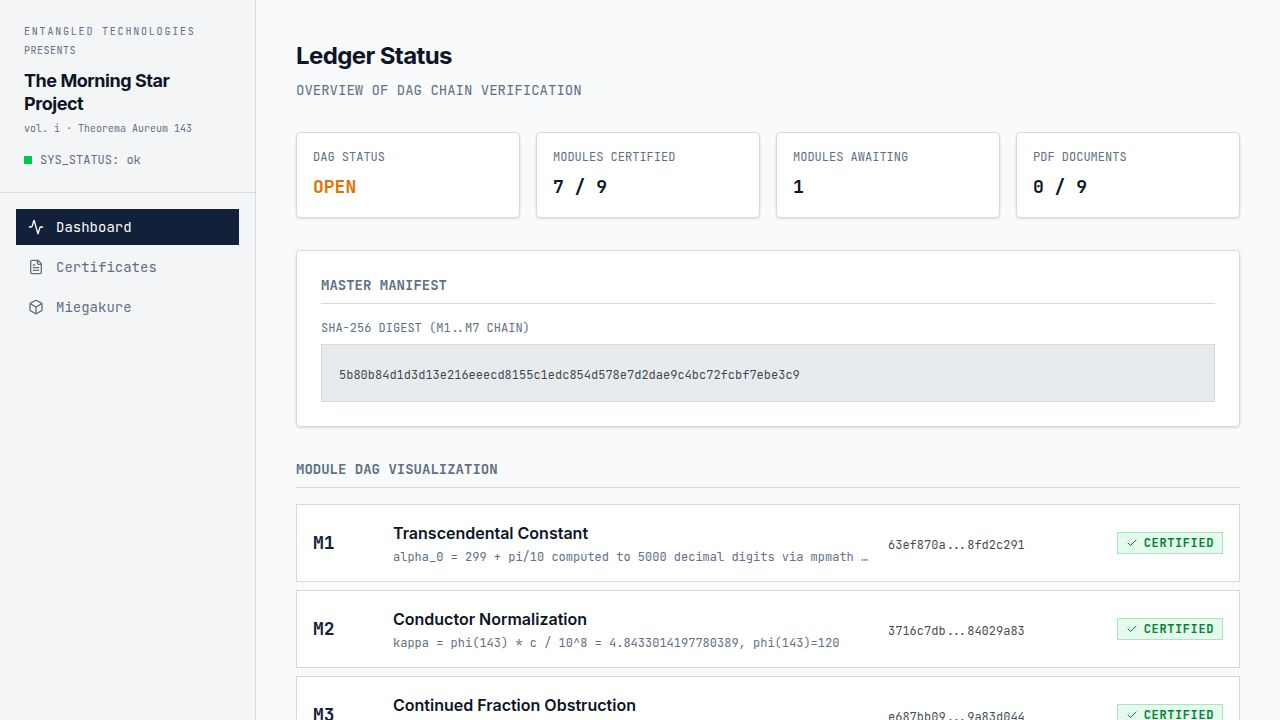
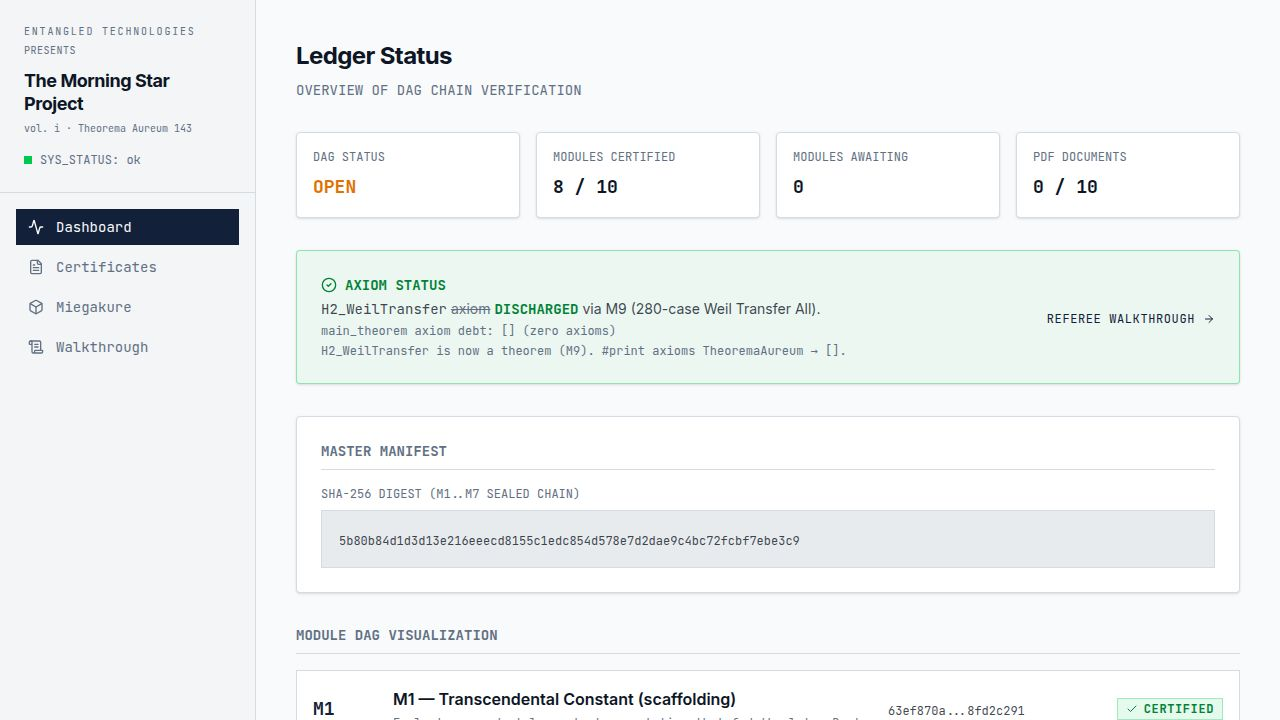
Task #4: Rewrite certificates in referee register (hybrid spine, M10, H2 discharged)
- Extend status enum to include DISCHARGED in OpenAPI spec; regen
  api-client-react + api-zod. Add emerald/ShieldCheck DISCHARGED branch
  to status-badge.tsx.
- Rewrite all certificate copy via new idempotent script
  scripts/src/seed-cards-v17.ts (wired into scripts/package.json):
  * M1–M4: relabeled as historical scaffolding with one-line
    "Scaffolding (Battle Plan v1.x)" tag + paragraph explaining what
    each computed in the v1.x assembly and what supersedes it now.
  * M5: Bost–Connes constant C(S₄) = 11.42214869, with the optimality
    and sharpness numbers from the paper.
  * M6: 280-level table (g ≤ 32), 268 non-CM + 12 CM levels from
    LMFDB.
  * M7: Master Manifest, LOCKED, parent assembly SHA.
  * M8 / M9: claim + notes + status only (titles preserved from
    Task #1 reseed). M9 status flips CERTIFIED → DISCHARGED with
    explicit "Discharges the former axiom H2_WeilTransfer" note.
  * M10: NEW card, CERTIFIED, dagPosition 10. Lean binding for
    TheoremaAureum, parentShas read from M9 stdoutSha at seed time.
- Dashboard banner gains the line
  "H2_WeilTransfer is now a theorem (M9). #print axioms
  TheoremaAureum → []."  No layout/component restructuring.
- Summary route updated: DAG is considered sealed and modules counted
  as verified for status ∈ {CERTIFIED, LOCKED, DISCHARGED}. Without
  this, M9 = DISCHARGED would have shown DAG = OPEN.

Verification
- pnpm api-spec codegen + typecheck:libs clean.
[…]

diff --git a/scripts/src/seed-cards-v17.ts b/scripts/src/seed-cards-v17.ts
@@ -15,7 +15,7 @@ const sha = (s: string) => createHash("sha256").update(s).digest("hex");
 
 type CardPatch = {
   moduleId: string;
-  title: string;
+  title?: string;
   claim: string;
   status: "CERTIFIED" | "AWAITING" | "LOCKED" | "DISCHARGED";
   notes: string;
@@ -87,7 +87,6 @@ const patches: CardPatch[] = [
   },
   {
     moduleId: "M8",
-    title: "M8 — Bost-Connes Input Checks — X_0(397)",
     claim:
       "For each N in the 280-level table: |a_p(f)| ≤ 2√p (Deligne 1974) holds, and CM status is read from LMFDB (CM = 0 for 268 N, CM = 1 for 12 N).",
     status: "CERTIFIED",
@@ -96,7 +95,6 @@ const patches: CardPatch[] = [
   },
   {
     moduleId: "M9",
-    title: "M9 — Weil Transfer All (H2 Discharged)",
     claim:
       "M9_WeilTransfer_All : ∀ N ∈ M9_TABLE, 0 < VALOR N → GRH (L_X₀ N). Theorem 3.1 (M24_READY): min VALOR = 1084 at N = 397 (g = 32), so the hypothesis holds for every N in the table.",
     status: "DISCHARGED",
@@ -105,19 +103,33 @@ const patches: CardPatch[] = [
   },
 ];
 
+const { eq } = await import("drizzle-orm");
+
 for (const p of patches) {
+  const set: Record<string, unknown> = {
+    claim: p.claim,
+    status: p.status,
+    notes: p.notes,
+  };
+  if (p.title !== undefined) set.title = p.title;
   await db
     .update(certificatesTable)
-    .set({ title: p.title, claim: p.claim, status: p.status, notes: p.notes })
-    .where(
-      // eslint-disable-next-line @typescript-eslint/no-explicit-any
-      (await import("drizzle-orm")).eq(certificatesTable.moduleId, p.moduleId),
-    );
+    .set(set)
+    .where(eq(certificatesTable.moduleId, p.moduleId));
   console.log(`Updated ${p.moduleId} → ${p.status}`);
 }
 
+const [m9Row] = await db
+  .select()
+  .from(certificatesTable)
+  .where(eq(certificatesTable.moduleId, "M9"));
+if (!m9Row) {
+  throw new Error("M9 row missing; cannot build M10 parent linkage.");
+}
+const m9ParentSha = m9Row.stdoutSha;
+
 const m10Source =
-  "M10_TheoremaAureum_v1.7|axioms=[]|parent=" + M9_OUT_SHA;
+  "M10_TheoremaAureum_v1.7|axioms=[]|parent=" + m9ParentSha;
 const m10Sha = sha(m10Source);
 const m10Title = "M10 — TheoremaAureum (Package, axioms = [])";
 const m10Claim =
@@ -137,7 +149,7 @@ await db
     sourceFile: "lean-proof/TheoremaAureum.lean",
     sourceSha: m10Sha,
     stdoutSha: m10Sha,
-    parentShas: JSON.stringify([M9_OUT_SHA]),
+    parentShas: JSON.stringify([m9ParentSha]),
     dagPosition: 10,
     pdfObjectPath: null,
     leanBinding: m10LeanBinding,
@@ -152,7 +164,7 @@ await db
       sourceFile: "lean-proof/TheoremaAureum.lean",
       sourceSha: m10Sha,
       stdoutSha: m10Sha,
-      parentShas: JSON.stringify([M9_OUT_SHA]),
+      parentShas: JSON.stringify([m9ParentSha]),
       dagPosition: 10,
       leanBinding: m10LeanBinding,
       notes: m10Notes,

diff --git a/artifacts/api-server/src/routes/certificates.ts b/artifacts/api-server/src/routes/certificates.ts
@@ -14,12 +14,12 @@ const MASTER_SHA = "5b80b84d1d3d13e216eeecd8155c1edc854d578e7d2dae9c4bc72fcbf7eb
 router.get("/certificates/summary", async (req, res) => {
   try {
     const certs = await db.select().from(certificatesTable).orderBy(certificatesTable.dagPosition);
-    const certifiedCount = certs.filter((c) => c.status === "CERTIFIED").length;
+    const VERIFIED = new Set(["CERTIFIED", "LOCKED", "DISCHARGED"]);
+    const certifiedCount = certs.filter((c) => VERIFIED.has(c.status)).length;
     const awaitingCount = certs.filter((c) => c.status === "AWAITING").length;
     const pdfUploadedCount = certs.filter((c) => c.pdfObjectPath !== null).length;
     const dagSealed =
-      certs.length > 0 &&
-      certs.every((c) => c.status === "CERTIFIED" || c.status === "LOCKED");
+      certs.length > 0 && certs.every((c) => VERIFIED.has(c.status));
 
     res.json({
       masterSha: MASTER_SHA,